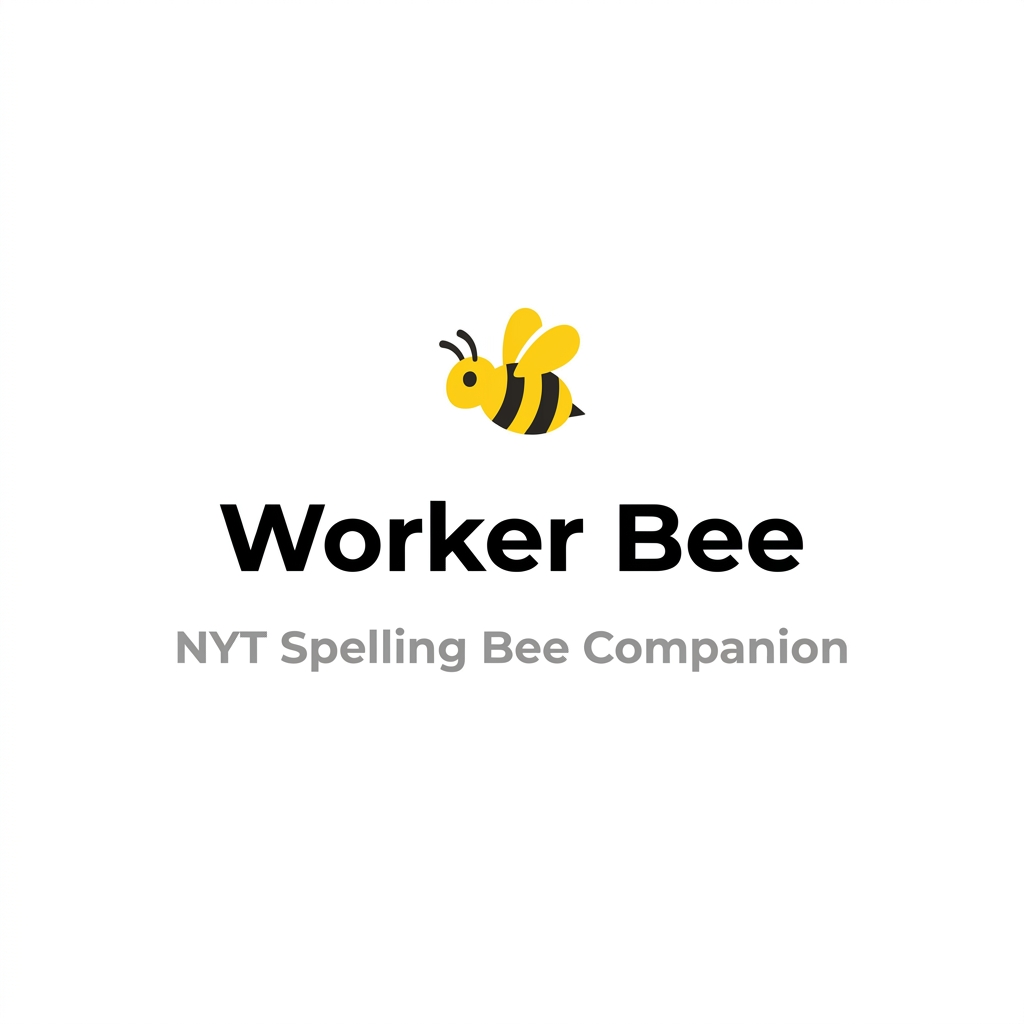
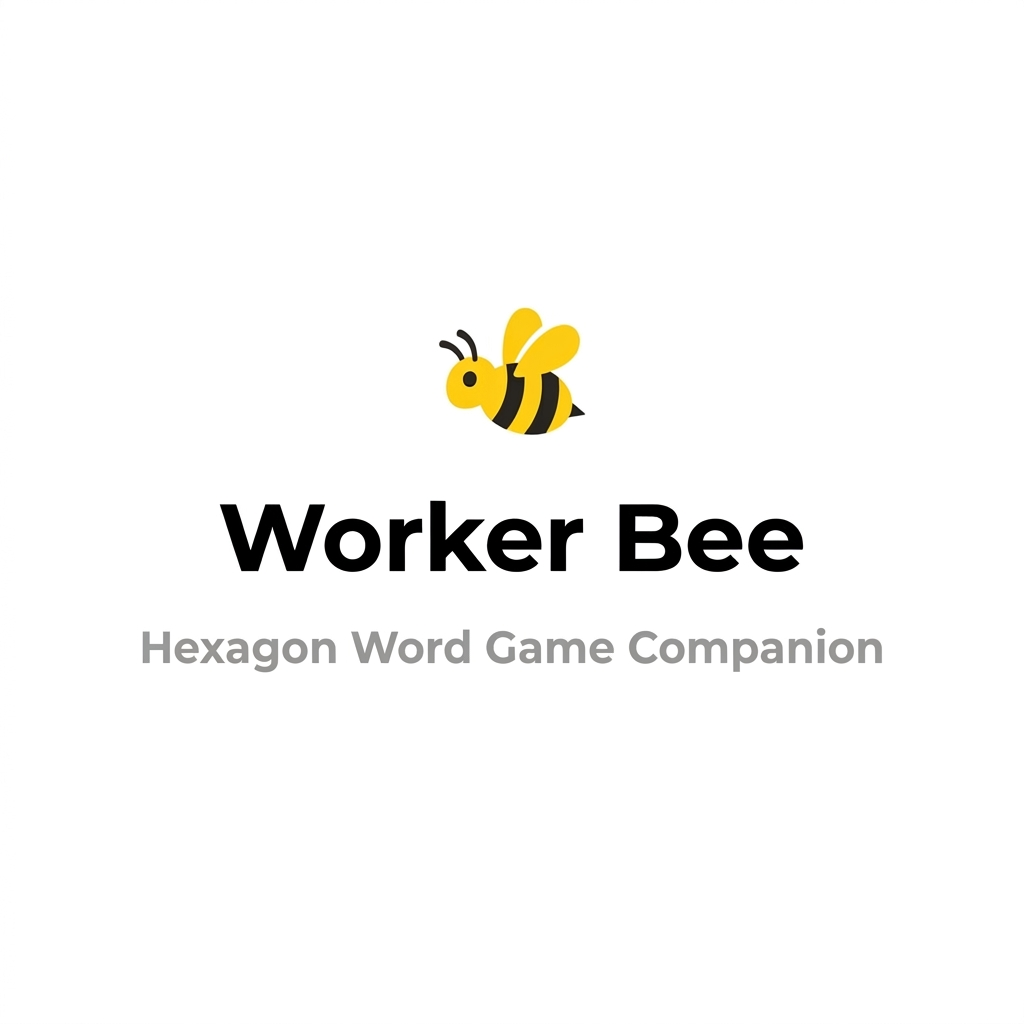
Update description

Changed region(s): [[0.125, 0.5938, 0.875, 0.6562]]

diff --git a/index.html b/index.html
@@ -4,14 +4,15 @@
 <head>
     <meta charset="UTF-8">
     <meta name="viewport" content="width=device-width, initial-scale=1.0">
-    <title>Worker Bee - NYT Spelling Bee Companion</title>
+    <title>Worker Bee - Hexagon Word Game Companion</title>
     <meta name="description"
-        content="Worker Bee is a companion tool that makes solving the NYT Spelling Bee quicker and more straightforward. It doesn't give you the answers; instead, it provides a built-in dictionary lookup and tracks your grid and two-letter progress all in one place, so you can focus on the joy of solving.">
+        content="Worker Bee is a companion tool that makes solving daily hexagon word games quicker and more straightforward. It doesn't give you the answers; instead, it provides a built-in dictionary lookup and tracks your grid and two-letter progress all in one place, so you can focus on the joy of solving.">
     <meta name="keywords"
-        content="NYT Spelling Bee, Spelling Bee companion, Spelling Bee tracker, dictionary lookup, NYT word game, grid tracker, two-letter tracker">
-    <meta property="og:title" content="Worker Bee - NYT Spelling Bee Companion">
+        content="Hexagon word game, puzzle companion, puzzle tracker, dictionary lookup, daily word game, grid tracker, two-letter tracker">
+    <meta name="robots" content="noindex, nofollow, noarchive, nosnippet">
+    <meta property="og:title" content="Worker Bee - Hexagon Word Game Companion">
     <meta property="og:description"
-        content="Worker Bee is a companion tool that makes solving the NYT Spelling Bee quicker and more straightforward. It doesn't give you the answers; instead, it provides a built-in dictionary lookup and tracks your grid and two-letter progress all in one place, so you can focus on the joy of solving.">
+        content="Worker Bee is a companion tool that makes solving daily hexagon word games quicker and more straightforward. It doesn't give you the answers; instead, it provides a built-in dictionary lookup and tracks your grid and two-letter progress all in one place, so you can focus on the joy of solving.">
     <meta property="og:image" content="og-image.png">
     <meta property="og:type" content="website">
     <link rel="icon"
@@ -24,7 +25,7 @@
         <div class="top-nav">
             <header>
                 <h1>Worker Bee 🐝</h1>
-                <p>Your NYT Spelling Bee Companion</p>
+                <p>Your Hexagon Word Game Companion</p>
             </header>
             <div class="header-actions hidden-desktop">
                 <div class="date-picker-wrapper"
@@ -53,7 +54,7 @@
                 <div class="how-to hidden-mobile">
                     <p class="how-to-title">How to use</p>
                     <ul class="how-to-list">
-                        <li>Open hints in a new tab and paste spelling bee grid on the right.</li>
+                        <li>Open hints in a new tab and paste the puzzle grid on the right.</li>
                         <li>Paste or type in words found.</li>
                         <li>Use <b>Look up</b> to search the dictionary for valid words.</li>
                         <li>Clear hints and words found to start afresh.</li>
@@ -228,9 +229,7 @@
     </div>
 
     <div class="footer-container">
-        <div class="footer-disclaimer">
-            This is just a scratchpad! Verify your words in the actual game.
-        </div>
+                <p class="mobile-disclaimer"><em>This is an independent companion scratchpad built to aid players of daily word puzzles. Final word validation always happens in the actual game. Not affiliated with or endorsed by any publisher.</em></p>
     </div>
 
 
@@ -257,7 +256,7 @@
             </div>
             <div class="modal-body" style="max-height: 60vh; overflow-y: auto; padding-right: 0.5rem;">
                 <ul class="how-to-list" style="padding-left:1rem; margin-top:0;">
-                    <li>Open hints in a new tab and paste spelling bee grid below.</li>
+                    <li>Open hints in a new tab and paste the puzzle grid below.</li>
                     <li>Paste or type in words found.</li>
                     <li>Use <b>Look up</b> to search the dictionary for valid words.</li>
                     <li>Clear hints and words found to start afresh.</li>

diff --git a/README.md b/README.md
@@ -1,21 +1,21 @@
 # 🐝 Worker Bee
 
-**NYT Spelling Bee Companion**
+**Hexagon Word Game Companion**
 
-Worker Bee is a companion tool that makes solving the NYT Spelling Bee quicker and more straightforward. It doesn't give you the answers; instead, it provides a built-in dictionary lookup and tracks your grid and two-letter progress all in one place, so you can focus on the joy of solving.
+Worker Bee is a companion tool that makes solving daily hexagon word games quicker and more straightforward. It doesn't give you the answers; instead, it provides a built-in dictionary lookup and tracks your grid and two-letter progress all in one place, so you can focus on the joy of solving.
 
-![Worker Bee UI Preview](og-image.png)
+<img src="og-image.png" alt="Worker Bee UI Preview" width="300">
 
 ## 🌟 Features
-* **Grid & Two-Letter Tracking**: Paste the NYT daily hints and automatically track how many words of each length and starting letter you still need to find.
+* **Grid & Two-Letter Tracking**: Paste the daily puzzle hints and automatically track how many words of each length and starting letter you still need to find.
 * **Smart Dictionary Lookup**: Use constraints to filter through valid words that contain only the letters of the day.
 * **Auto-Calculations**: As you paste or type in the words you've found, Worker Bee instantly recalculates your remaining grid and two-letter counts.
 * **Bingo & Queen Bee Tracking**: See exactly when you hit Bingo or Queen Bee milestones.
 * **Zero Backend**: Fully runs in the browser, making it incredibly fast and completely private.
 
 ## 🚀 How to Use
-1. Open the [NYT Spelling Bee Hints](https://www.nytimes.com/crosswords/spelling-bee-forum.html) page.
-2. Copy the entire hints section (from "Spelling Bee Grid" down through the two-letter list).
+1. Open the daily puzzle forum hints page.
+2. Copy the entire hints section (from the top grid down through the two-letter list).
 3. Paste it into the Worker Bee app and click **Load Hints**.
 4. Start entering the words you've found in the input box. Worker Bee will cross them off your grid automatically!
 5. Use the **Look up** feature to query remaining words if you get stuck.
@@ -26,4 +26,4 @@ Worker Bee is a companion tool that makes solving the NYT Spelling Bee quicker a
 * Vanilla JavaScript (ES6+)
 
 ---
-*Disclaimer: This is a companion scratchpad built to aid players. Final word validation always happens in the actual NYT Spelling Bee game. Not affiliated with The New York Times.*
+*Disclaimer: This is an independent companion scratchpad built to aid players of daily word puzzles. Final word validation always happens in the actual game itself. Not affiliated with or endorsed by any newspaper or puzzle publisher.*
